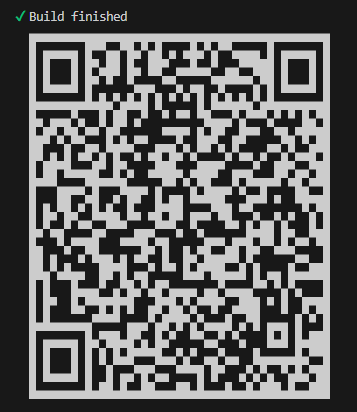
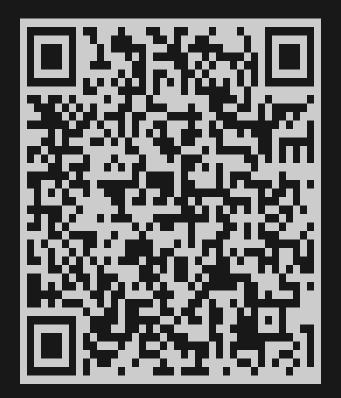
deploy

diff --git a/README.md b/README.md
@@ -2,7 +2,7 @@
 
 ## Mobile application as network. 
 
-[Link to deploy](https://expo.dev/accounts/albinaanistratenko/projects/newProject/builds/9b0222b9-eb73-4782-991c-a0030cf5027a).
+[Link to deploy](https://expo.dev/accounts/albinaanistratenko/projects/newProject/builds/0d9f0119-03be-456b-81d7-e611094ca353).
 
 ### QR-code
 ![QR](./newProject/image.PNG)
